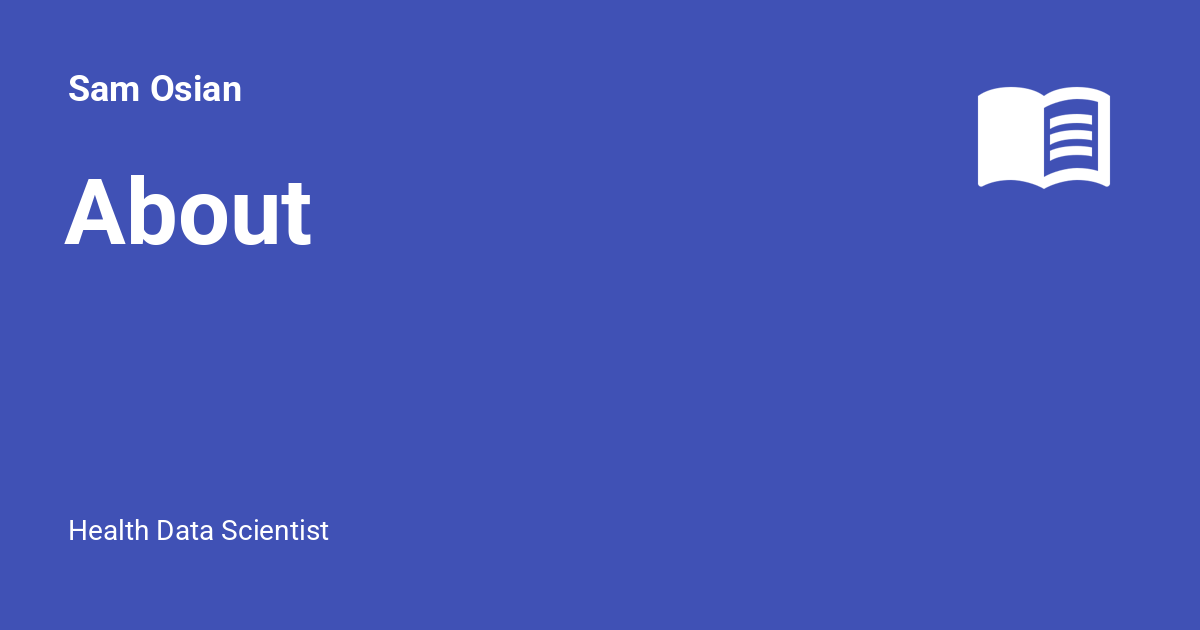
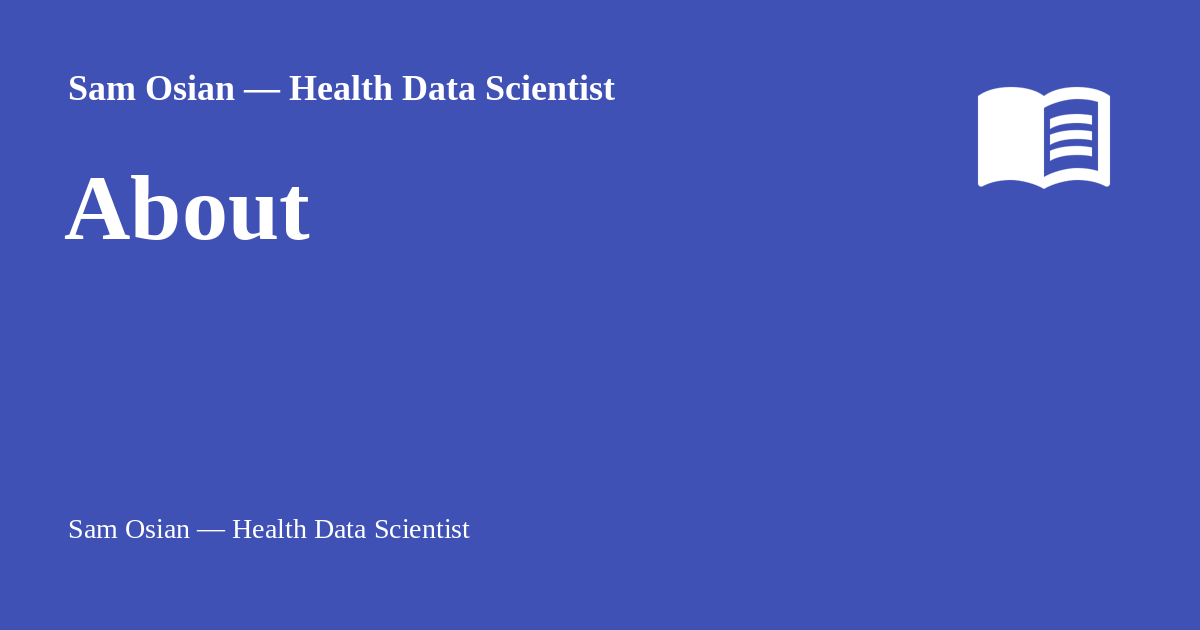
Deployed f27662d with MkDocs version: 1.6.1

Changed region(s): [[0.0617, 0.1206, 0.5242, 0.181], [0.0308, 0.2714, 0.2775, 0.3921], [0.0617, 0.8143, 0.4008, 0.8746]]

diff --git a/2025/07/14/rethinking-statistical-significance/index.html b/2025/07/14/rethinking-statistical-significance/index.html
@@ -6,7 +6,7 @@
       <meta charset="utf-8">
       <meta name="viewport" content="width=device-width,initial-scale=1">
       
-        <meta name="description" content="Health Data Scientist">
+        <meta name="description" content="Sam Osian — Health Data Scientist">
       
       
         <meta name="author" content="Sam Osian">
@@ -25,7 +25,7 @@
     
     
       
-        <title>Rethinking 'statistical significance' — Has the p-value overstayed its welcome? - Sam Osian</title>
+        <title>Rethinking 'statistical significance' — Has the p-value overstayed its welcome? - Sam Osian — Health Data Scientist</title>
       
     
     
@@ -64,9 +64,9 @@
       
         <meta  property="og:type"  content="website" >
       
-        <meta  property="og:title"  content="Rethinking 'statistical significance' — Has the p-value overstayed its welcome? - Sam Osian" >
+        <meta  property="og:title"  content="Rethinking 'statistical significance' — Has the p-value overstayed its welcome? - Sam Osian — Health Data Scientist" >
       
-        <meta  property="og:description"  content="Health Data Scientist" >
+        <meta  property="og:description"  content="Sam Osian — Health Data Scientist" >
       
         <meta  property="og:image"  content="https://sam-osian.com/assets/images/social/posts/rethinking-significance.png" >
       
@@ -80,9 +80,9 @@
       
         <meta  name="twitter:card"  content="summary_large_image" >
       
-        <meta  name="twitter:title"  content="Rethinking 'statistical significance' — Has the p-value overstayed its welcome? - Sam Osian" >
+        <meta  name="twitter:title"  content="Rethinking 'statistical significance' — Has the p-value overstayed its welcome? - Sam Osian — Health Data Scientist" >
       
-        <meta  name="twitter:description"  content="Health Data Scientist" >
+        <meta  name="twitter:description"  content="Sam Osian — Health Data Scientist" >
       
         <meta  name="twitter:image"  content="https://sam-osian.com/assets/images/social/posts/rethinking-significance.png" >
       
@@ -132,7 +132,7 @@
 
 <header class="md-header md-header--shadow" data-md-component="header">
   <nav class="md-header__inner md-grid" aria-label="Header">
-    <a href="../../../.." title="Sam Osian" class="md-header__button md-logo" aria-label="Sam Osian" data-md-component="logo">
+    <a href="../../../.." title="Sam Osian — Health Data Scientist" class="md-header__button md-logo" aria-label="Sam Osian — Health Data Scientist" data-md-component="logo">
       
   
   <svg xmlns="http://www.w3.org/2000/svg" viewBox="0 0 24 24"><path d="M12 21.5c-1.35-.85-3.8-1.5-5.5-1.5-1.65 0-3.35.3-4.75 1.05-.1.05-.15.05-.25.05-.25 0-.5-.25-.5-.5V6c.6-.45 1.25-.75 2-1 1.11-.35 2.33-.5 3.5-.5 1.95 0 4.05.4 5.5 1.5 1.45-1.1 3.55-1.5 5.5-1.5 1.17 0 2.39.15 3.5.5.75.25 1.4.55 2 1v14.6c0 .25-.25.5-.5.5-.1 0-.15 0-.25-.05-1.4-.75-3.1-1.05-4.75-1.05-1.7 0-4.15.65-5.5 1.5M12 8v11.5c1.35-.85 3.8-1.5 5.5-1.5 1.2 0 2.4.15 3.5.5V7c-1.1-.35-2.3-.5-3.5-.5-1.7 0-4.15.65-5.5 1.5m1 3.5c1.11-.68 2.6-1 4.5-1 .91 0 1.76.09 2.5.28V9.23c-.87-.15-1.71-.23-2.5-.23q-2.655 0-4.5.84zm4.5.17c-1.71 0-3.21.26-4.5.79v1.69c1.11-.65 2.6-.99 4.5-.99 1.04 0 1.88.08 2.5.24v-1.5c-.87-.16-1.71-.23-2.5-.23m2.5 2.9c-.87-.16-1.71-.24-2.5-.24-1.83 0-3.33.27-4.5.8v1.69c1.11-.66 2.6-.99 4.5-.99 1.04 0 1.88.08 2.5.24z"/></svg>
@@ -146,7 +146,7 @@
       <div class="md-header__ellipsis">
         <div class="md-header__topic">
           <span class="md-ellipsis">
-            Sam Osian
+            Sam Osian — Health Data Scientist
           </span>
         </div>
         <div class="md-header__topic" data-md-component="header-topic">
@@ -260,13 +260,13 @@
 
 <nav class="md-nav md-nav--primary" aria-label="Navigation" data-md-level="0">
   <label class="md-nav__title" for="__drawer">
-    <a href="../../../.." title="Sam Osian" class="md-nav__button md-logo" aria-label="Sam Osian" data-md-component="logo">
+    <a href="../../../.." title="Sam Osian — Health Data Scientist" class="md-nav__button md-logo" aria-label="Sam Osian — Health Data Scientist" data-md-component="logo">
       
   
   <svg xmlns="http://www.w3.org/2000/svg" viewBox="0 0 24 24"><path d="M12 21.5c-1.35-.85-3.8-1.5-5.5-1.5-1.65 0-3.35.3-4.75 1.05-.1.05-.15.05-.25.05-.25 0-.5-.25-.5-.5V6c.6-.45 1.25-.75 2-1 1.11-.35 2.33-.5 3.5-.5 1.95 0 4.05.4 5.5 1.5 1.45-1.1 3.55-1.5 5.5-1.5 1.17 0 2.39.15 3.5.5.75.25 1.4.55 2 1v14.6c0 .25-.25.5-.5.5-.1 0-.15 0-.25-.05-1.4-.75-3.1-1.05-4.75-1.05-1.7 0-4.15.65-5.5 1.5M12 8v11.5c1.35-.85 3.8-1.5 5.5-1.5 1.2 0 2.4.15 3.5.5V7c-1.1-.35-2.3-.5-3.5-.5-1.7 0-4.15.65-5.5 1.5m1 3.5c1.11-.68 2.6-1 4.5-1 .91 0 1.76.09 2.5.28V9.23c-.87-.15-1.71-.23-2.5-.23q-2.655 0-4.5.84zm4.5.17c-1.71 0-3.21.26-4.5.79v1.69c1.11-.65 2.6-.99 4.5-.99 1.04 0 1.88.08 2.5.24v-1.5c-.87-.16-1.71-.23-2.5-.23m2.5 2.9c-.87-.16-1.71-.24-2.5-.24-1.83 0-3.33.27-4.5.8v1.69c1.11-.66 2.6-.99 4.5-.99 1.04 0 1.88.08 2.5.24z"/></svg>
 
     </a>
-    Sam Osian
+    Sam Osian — Health Data Scientist
   </label>
   
   <ul class="md-nav__list" data-md-scrollfix>

diff --git a/publications/index.html b/publications/index.html
@@ -6,7 +6,7 @@
       <meta charset="utf-8">
       <meta name="viewport" content="width=device-width,initial-scale=1">
       
-        <meta name="description" content="Health Data Scientist">
+        <meta name="description" content="Sam Osian — Health Data Scientist">
       
       
         <meta name="author" content="Sam Osian">
@@ -27,7 +27,7 @@
     
     
       
-        <title>Publications - Sam Osian</title>
+        <title>Publications - Sam Osian — Health Data Scientist</title>
       
     
     
@@ -64,9 +64,9 @@
       
         <meta  property="og:type"  content="website" >
       
-        <meta  property="og:title"  content="Publications - Sam Osian" >
+        <meta  property="og:title"  content="Publications - Sam Osian — Health Data Scientist" >
       
-        <meta  property="og:description"  content="Health Data Scientist" >
+        <meta  property="og:description"  content="Sam Osian — Health Data Scientist" >
       
         <meta  property="og:image"  content="https://sam-osian.com/assets/images/social/publications.png" >
       
@@ -80,9 +80,9 @@
       
         <meta  name="twitter:card"  content="summary_large_image" >
       
-        <meta  name="twitter:title"  content="Publications - Sam Osian" >
+        <meta  name="twitter:title"  content="Publications - Sam Osian — Health Data Scientist" >
       
-        <meta  name="twitter:description"  content="Health Data Scientist" >
+        <meta  name="twitter:description"  content="Sam Osian — Health Data Scientist" >
       
         <meta  name="twitter:image"  content="https://sam-osian.com/assets/images/social/publications.png" >
       
@@ -132,7 +132,7 @@
 
 <header class="md-header md-header--shadow" data-md-component="header">
   <nav class="md-header__inner md-grid" aria-label="Header">
-    <a href=".." title="Sam Osian" class="md-header__button md-logo" aria-label="Sam Osian" data-md-component="logo">
+    <a href=".." title="Sam Osian — Health Data Scientist" class="md-header__button md-logo" aria-label="Sam Osian — Health Data Scientist" data-md-component="logo">
       
   
   <svg xmlns="http://www.w3.org/2000/svg" viewBox="0 0 24 24"><path d="M12 21.5c-1.35-.85-3.8-1.5-5.5-1.5-1.65 0-3.35.3-4.75 1.05-.1.05-.15.05-.25.05-.25 0-.5-.25-.5-.5V6c.6-.45 1.25-.75 2-1 1.11-.35 2.33-.5 3.5-.5 1.95 0 4.05.4 5.5 1.5 1.45-1.1 3.55-1.5 5.5-1.5 1.17 0 2.39.15 3.5.5.75.25 1.4.55 2 1v14.6c0 .25-.25.5-.5.5-.1 0-.15 0-.25-.05-1.4-.75-3.1-1.05-4.75-1.05-1.7 0-4.15.65-5.5 1.5M12 8v11.5c1.35-.85 3.8-1.5 5.5-1.5 1.2 0 2.4.15 3.5.5V7c-1.1-.35-2.3-.5-3.5-.5-1.7 0-4.15.65-5.5 1.5m1 3.5c1.11-.68 2.6-1 4.5-1 .91 0 1.76.09 2.5.28V9.23c-.87-.15-1.71-.23-2.5-.23q-2.655 0-4.5.84zm4.5.17c-1.71 0-3.21.26-4.5.79v1.69c1.11-.65 2.6-.99 4.5-.99 1.04 0 1.88.08 2.5.24v-1.5c-.87-.16-1.71-.23-2.5-.23m2.5 2.9c-.87-.16-1.71-.24-2.5-.24-1.83 0-3.33.27-4.5.8v1.69c1.11-.66 2.6-.99 4.5-.99 1.04 0 1.88.08 2.5.24z"/></svg>
@@ -146,7 +146,7 @@
       <div class="md-header__ellipsis">
         <div class="md-header__topic">
           <span class="md-ellipsis">
-            Sam Osian
+            Sam Osian — Health Data Scientist
           </span>
         </div>
         <div class="md-header__topic" data-md-component="header-topic">
@@ -258,13 +258,13 @@
 
 <nav class="md-nav md-nav--primary" aria-label="Navigation" data-md-level="0">
   <label class="md-nav__title" for="__drawer">
-    <a href=".." title="Sam Osian" class="md-nav__button md-logo" aria-label="Sam Osian" data-md-component="logo">
+    <a href=".." title="Sam Osian — Health Data Scientist" class="md-nav__button md-logo" aria-label="Sam Osian — Health Data Scientist" data-md-component="logo">
       
   
   <svg xmlns="http://www.w3.org/2000/svg" viewBox="0 0 24 24"><path d="M12 21.5c-1.35-.85-3.8-1.5-5.5-1.5-1.65 0-3.35.3-4.75 1.05-.1.05-.15.05-.25.05-.25 0-.5-.25-.5-.5V6c.6-.45 1.25-.75 2-1 1.11-.35 2.33-.5 3.5-.5 1.95 0 4.05.4 5.5 1.5 1.45-1.1 3.55-1.5 5.5-1.5 1.17 0 2.39.15 3.5.5.75.25 1.4.55 2 1v14.6c0 .25-.25.5-.5.5-.1 0-.15 0-.25-.05-1.4-.75-3.1-1.05-4.75-1.05-1.7 0-4.15.65-5.5 1.5M12 8v11.5c1.35-.85 3.8-1.5 5.5-1.5 1.2 0 2.4.15 3.5.5V7c-1.1-.35-2.3-.5-3.5-.5-1.7 0-4.15.65-5.5 1.5m1 3.5c1.11-.68 2.6-1 4.5-1 .91 0 1.76.09 2.5.28V9.23c-.87-.15-1.71-.23-2.5-.23q-2.655 0-4.5.84zm4.5.17c-1.71 0-3.21.26-4.5.79v1.69c1.11-.65 2.6-.99 4.5-.99 1.04 0 1.88.08 2.5.24v-1.5c-.87-.16-1.71-.23-2.5-.23m2.5 2.9c-.87-.16-1.71-.24-2.5-.24-1.83 0-3.33.27-4.5.8v1.69c1.11-.66 2.6-.99 4.5-.99 1.04 0 1.88.08 2.5.24z"/></svg>
 
     </a>
-    Sam Osian
+    Sam Osian — Health Data Scientist
   </label>
   
   <ul class="md-nav__list" data-md-scrollfix>

diff --git a/about/index.html b/about/index.html
@@ -6,7 +6,7 @@
       <meta charset="utf-8">
       <meta name="viewport" content="width=device-width,initial-scale=1">
       
-        <meta name="description" content="Health Data Scientist">
+        <meta name="description" content="Sam Osian — Health Data Scientist">
       
       
         <meta name="author" content="Sam Osian">
@@ -29,7 +29,7 @@
     
     
       
-        <title>About - Sam Osian</title>
+        <title>About - Sam Osian — Health Data Scientist</title>
       
     
     
@@ -66,9 +66,9 @@
       
         <meta  property="og:type"  content="website" >
       
-        <meta  property="og:title"  content="About - Sam Osian" >
+        <meta  property="og:title"  content="About - Sam Osian — Health Data Scientist" >
       
-        <meta  property="og:description"  content="Health Data Scientist" >
+        <meta  property="og:description"  content="Sam Osian — Health Data Scientist" >
       
         <meta  property="og:image"  content="https://sam-osian.com/assets/images/social/about.png" >
       
@@ -82,9 +82,9 @@
       
         <meta  name="twitter:card"  content="summary_large_image" >
       
-        <meta  name="twitter:title"  content="About - Sam Osian" >
+        <meta  name="twitter:title"  content="About - Sam Osian — Health Data Scientist" >
       
-        <meta  name="twitter:description"  content="Health Data Scientist" >
+        <meta  name="twitter:description"  content="Sam Osian — Health Data Scientist" >
       
         <meta  name="twitter:image"  content="https://sam-osian.com/assets/images/social/about.png" >
       
@@ -134,7 +134,7 @@
 
 <header class="md-header md-header--shadow" data-md-component="header">
   <nav class="md-header__inner md-grid" aria-label="Header">
-    <a href=".." title="Sam Osian" class="md-header__button md-logo" aria-label="Sam Osian" data-md-component="logo">
+    <a href=".." title="Sam Osian — Health Data Scientist" class="md-header__button md-logo" aria-label="Sam Osian — Health Data Scientist" data-md-component="logo">
       
   
   <svg xmlns="http://www.w3.org/2000/svg" viewBox="0 0 24 24"><path d="M12 21.5c-1.35-.85-3.8-1.5-5.5-1.5-1.65 0-3.35.3-4.75 1.05-.1.05-.15.05-.25.05-.25 0-.5-.25-.5-.5V6c.6-.45 1.25-.75 2-1 1.11-.35 2.33-.5 3.5-.5 1.95 0 4.05.4 5.5 1.5 1.45-1.1 3.55-1.5 5.5-1.5 1.17 0 2.39.15 3.5.5.75.25 1.4.55 2 1v14.6c0 .25-.25.5-.5.5-.1 0-.15 0-.25-.05-1.4-.75-3.1-1.05-4.75-1.05-1.7 0-4.15.65-5.5 1.5M12 8v11.5c1.35-.85 3.8-1.5 5.5-1.5 1.2 0 2.4.15 3.5.5V7c-1.1-.35-2.3-.5-3.5-.5-1.7 0-4.15.65-5.5 1.5m1 3.5c1.11-.68 2.6-1 4.5-1 .91 0 1.76.09 2.5.28V9.23c-.87-.15-1.71-.23-2.5-.23q-2.655 0-4.5.84zm4.5.17c-1.71 0-3.21.26-4.5.79v1.69c1.11-.65 2.6-.99 4.5-.99 1.04 0 1.88.08 2.5.24v-1.5c-.87-.16-1.71-.23-2.5-.23m2.5 2.9c-.87-.16-1.71-.24-2.5-.24-1.83 0-3.33.27-4.5.8v1.69c1.11-.66 2.6-.99 4.5-.99 1.04 0 1.88.08 2.5.24z"/></svg>
@@ -148,7 +148,7 @@
       <div class="md-header__ellipsis">
         <div class="md-header__topic">
           <span class="md-ellipsis">
-            Sam Osian
+            Sam Osian — Health Data Scientist
           </span>
         </div>
         <div class="md-header__topic" data-md-component="header-topic">
@@ -260,13 +260,13 @@
 
 <nav class="md-nav md-nav--primary" aria-label="Navigation" data-md-level="0">
   <label class="md-nav__title" for="__drawer">
-    <a href=".." title="Sam Osian" class="md-nav__button md-logo" aria-label="Sam Osian" data-md-component="logo">
+    <a href=".." title="Sam Osian — Health Data Scientist" class="md-nav__button md-logo" aria-label="Sam Osian — Health Data Scientist" data-md-component="logo">
       
   
   <svg xmlns="http://www.w3.org/2000/svg" viewBox="0 0 24 24"><path d="M12 21.5c-1.35-.85-3.8-1.5-5.5-1.5-1.65 0-3.35.3-4.75 1.05-.1.05-.15.05-.25.05-.25 0-.5-.25-.5-.5V6c.6-.45 1.25-.75 2-1 1.11-.35 2.33-.5 3.5-.5 1.95 0 4.05.4 5.5 1.5 1.45-1.1 3.55-1.5 5.5-1.5 1.17 0 2.39.15 3.5.5.75.25 1.4.55 2 1v14.6c0 .25-.25.5-.5.5-.1 0-.15 0-.25-.05-1.4-.75-3.1-1.05-4.75-1.05-1.7 0-4.15.65-5.5 1.5M12 8v11.5c1.35-.85 3.8-1.5 5.5-1.5 1.2 0 2.4.15 3.5.5V7c-1.1-.35-2.3-.5-3.5-.5-1.7 0-4.15.65-5.5 1.5m1 3.5c1.11-.68 2.6-1 4.5-1 .91 0 1.76.09 2.5.28V9.23c-.87-.15-1.71-.23-2.5-.23q-2.655 0-4.5.84zm4.5.17c-1.71 0-3.21.26-4.5.79v1.69c1.11-.65 2.6-.99 4.5-.99 1.04 0 1.88.08 2.5.24v-1.5c-.87-.16-1.71-.23-2.5-.23m2.5 2.9c-.87-.16-1.71-.24-2.5-.24-1.83 0-3.33.27-4.5.8v1.69c1.11-.66 2.6-.99 4.5-.99 1.04 0 1.88.08 2.5.24z"/></svg>
 
     </a>
-    Sam Osian
+    Sam Osian — Health Data Scientist
   </label>
   
   <ul class="md-nav__list" data-md-scrollfix>

diff --git a/index.html b/index.html
@@ -6,7 +6,7 @@
       <meta charset="utf-8">
       <meta name="viewport" content="width=device-width,initial-scale=1">
       
-        <meta name="description" content="Health Data Scientist">
+        <meta name="description" content="Sam Osian — Health Data Scientist">
       
       
         <meta name="author" content="Sam Osian">
@@ -27,7 +27,7 @@
     
     
       
-        <title>Sam Osian</title>
+        <title>Sam Osian — Health Data Scientist</title>
       
     
     
@@ -64,9 +64,9 @@
       
         <meta  property="og:type"  content="website" >
       
-        <meta  property="og:title"  content="Sam Osian" >
+        <meta  property="og:title"  content="Sam Osian — Health Data Scientist" >
       
-        <meta  property="og:description"  content="Health Data Scientist" >
+        <meta  property="og:description"  content="Sam Osian — Health Data Scientist" >
       
         <meta  property="og:image"  content="https://sam-osian.com/assets/images/social/index.png" >
       
@@ -80,9 +80,9 @@
       
         <meta  name="twitter:card"  content="summary_large_image" >
       
-        <meta  name="twitter:title"  content="Sam Osian" >
+        <meta  name="twitter:title"  content="Sam Osian — Health Data Scientist" >
       
-        <meta  name="twitter:description"  content="Health Data Scientist" >
+        <meta  name="twitter:description"  content="Sam Osian — Health Data Scientist" >
       
         <meta  name="twitter:image"  content="https://sam-osian.com/assets/images/social/index.png" >
       
@@ -132,7 +132,7 @@
 
 <header class="md-header md-header--shadow" data-md-component="header">
   <nav class="md-header__inner md-grid" aria-label="Header">
-    <a href="." title="Sam Osian" class="md-header__button md-logo" aria-label="Sam Osian" data-md-component="logo">
+    <a href="." title="Sam Osian — Health Data Scientist" class="md-header__button md-logo" aria-label="Sam Osian — Health Data Scientist" data-md-component="logo">
       
   
   <svg xmlns="http://www.w3.org/2000/svg" viewBox="0 0 24 24"><path d="M12 21.5c-1.35-.85-3.8-1.5-5.5-1.5-1.65 0-3.35.3-4.75 1.05-.1.05-.15.05-.25.05-.25 0-.5-.25-.5-.5V6c.6-.45 1.25-.75 2-1 1.11-.35 2.33-.5 3.5-.5 1.95 0 4.05.4 5.5 1.5 1.45-1.1 3.55-1.5 5.5-1.5 1.17 0 2.39.15 3.5.5.75.25 1.4.55 2 1v14.6c0 .25-.25.5-.5.5-.1 0-.15 0-.25-.05-1.4-.75-3.1-1.05-4.75-1.05-1.7 0-4.15.65-5.5 1.5M12 8v11.5c1.35-.85 3.8-1.5 5.5-1.5 1.2 0 2.4.15 3.5.5V7c-1.1-.35-2.3-.5-3.5-.5-1.7 0-4.15.65-5.5 1.5m1 3.5c1.11-.68 2.6-1 4.5-1 .91 0 1.76.09 2.5.28V9.23c-.87-.15-1.71-.23-2.5-.23q-2.655 0-4.5.84zm4.5.17c-1.71 0-3.21.26-4.5.79v1.69c1.11-.65 2.6-.99 4.5-.99 1.04 0 1.88.08 2.5.24v-1.5c-.87-.16-1.71-.23-2.5-.23m2.5 2.9c-.87-.16-1.71-.24-2.5-.24-1.83 0-3.33.27-4.5.8v1.69c1.11-.66 2.6-.99 4.5-.99 1.04 0 1.88.08 2.5.24z"/></svg>
@@ -146,7 +146,7 @@
       <div class="md-header__ellipsis">
         <div class="md-header__topic">
           <span class="md-ellipsis">
-            Sam Osian
+            Sam Osian — Health Data Scientist
           </span>
         </div>
         <div class="md-header__topic" data-md-component="header-topic">
@@ -258,13 +258,13 @@
 
 <nav class="md-nav md-nav--primary" aria-label="Navigation" data-md-level="0">
   <label class="md-nav__title" for="__drawer">
-    <a href="." title="Sam Osian" class="md-nav__button md-logo" aria-label="Sam Osian" data-md-component="logo">
+    <a href="." title="Sam Osian — Health Data Scientist" class="md-nav__button md-logo" aria-label="Sam Osian — Health Data Scientist" data-md-component="logo">
       
   
   <svg xmlns="http://www.w3.org/2000/svg" viewBox="0 0 24 24"><path d="M12 21.5c-1.35-.85-3.8-1.5-5.5-1.5-1.65 0-3.35.3-4.75 1.05-.1.05-.15.05-.25.05-.25 0-.5-.25-.5-.5V6c.6-.45 1.25-.75 2-1 1.11-.35 2.33-.5 3.5-.5 1.95 0 4.05.4 5.5 1.5 1.45-1.1 3.55-1.5 5.5-1.5 1.17 0 2.39.15 3.5.5.75.25 1.4.55 2 1v14.6c0 .25-.25.5-.5.5-.1 0-.15 0-.25-.05-1.4-.75-3.1-1.05-4.75-1.05-1.7 0-4.15.65-5.5 1.5M12 8v11.5c1.35-.85 3.8-1.5 5.5-1.5 1.2 0 2.4.15 3.5.5V7c-1.1-.35-2.3-.5-3.5-.5-1.7 0-4.15.65-5.5 1.5m1 3.5c1.11-.68 2.6-1 4.5-1 .91 0 1.76.09 2.5.28V9.23c-.87-.15-1.71-.23-2.5-.23q-2.655 0-4.5.84zm4.5.17c-1.71 0-3.21.26-4.5.79v1.69c1.11-.65 2.6-.99 4.5-.99 1.04 0 1.88.08 2.5.24v-1.5c-.87-.16-1.71-.23-2.5-.23m2.5 2.9c-.87-.16-1.71-.24-2.5-.24-1.83 0-3.33.27-4.5.8v1.69c1.11-.66 2.6-.99 4.5-.99 1.04 0 1.88.08 2.5.24z"/></svg>
 
     </a>
-    Sam Osian
+    Sam Osian — Health Data Scientist
   </label>
   
   <ul class="md-nav__list" data-md-scrollfix>

diff --git a/404.html b/404.html
@@ -6,7 +6,7 @@
       <meta charset="utf-8">
       <meta name="viewport" content="width=device-width,initial-scale=1">
       
-        <meta name="description" content="Health Data Scientist">
+        <meta name="description" content="Sam Osian — Health Data Scientist">
       
       
         <meta name="author" content="Sam Osian">
@@ -23,7 +23,7 @@
     
     
       
-        <title>Sam Osian</title>
+        <title>Sam Osian — Health Data Scientist</title>
       
     
     
@@ -88,7 +88,7 @@
 
 <header class="md-header md-header--shadow" data-md-component="header">
   <nav class="md-header__inner md-grid" aria-label="Header">
-    <a href="/." title="Sam Osian" class="md-header__button md-logo" aria-label="Sam Osian" data-md-component="logo">
+    <a href="/." title="Sam Osian — Health Data Scientist" class="md-header__button md-logo" aria-label="Sam Osian — Health Data Scientist" data-md-component="logo">
       
   
   <svg xmlns="http://www.w3.org/2000/svg" viewBox="0 0 24 24"><path d="M12 21.5c-1.35-.85-3.8-1.5-5.5-1.5-1.65 0-3.35.3-4.75 1.05-.1.05-.15.05-.25.05-.25 0-.5-.25-.5-.5V6c.6-.45 1.25-.75 2-1 1.11-.35 2.33-.5 3.5-.5 1.95 0 4.05.4 5.5 1.5 1.45-1.1 3.55-1.5 5.5-1.5 1.17 0 2.39.15 3.5.5.75.25 1.4.55 2 1v14.6c0 .25-.25.5-.5.5-.1 0-.15 0-.25-.05-1.4-.75-3.1-1.05-4.75-1.05-1.7 0-4.15.65-5.5 1.5M12 8v11.5c1.35-.85 3.8-1.5 5.5-1.5 1.2 0 2.4.15 3.5.5V7c-1.1-.35-2.3-.5-3.5-.5-1.7 0-4.15.65-5.5 1.5m1 3.5c1.11-.68 2.6-1 4.5-1 .91 0 1.76.09 2.5.28V9.23c-.87-.15-1.71-.23-2.5-.23q-2.655 0-4.5.84zm4.5.17c-1.71 0-3.21.26-4.5.79v1.69c1.11-.65 2.6-.99 4.5-.99 1.04 0 1.88.08 2.5.24v-1.5c-.87-.16-1.71-.23-2.5-.23m2.5 2.9c-.87-.16-1.71-.24-2.5-.24-1.83 0-3.33.27-4.5.8v1.69c1.11-.66 2.6-.99 4.5-.99 1.04 0 1.88.08 2.5.24z"/></svg>
@@ -102,7 +102,7 @@
       <div class="md-header__ellipsis">
         <div class="md-header__topic">
           <span class="md-ellipsis">
-            Sam Osian
+            Sam Osian — Health Data Scientist
           </span>
         </div>
         <div class="md-header__topic" data-md-component="header-topic">
@@ -214,13 +214,13 @@
 
 <nav class="md-nav md-nav--primary" aria-label="Navigation" data-md-level="0">
   <label class="md-nav__title" for="__drawer">
-    <a href="/." title="Sam Osian" class="md-nav__button md-logo" aria-label="Sam Osian" data-md-component="logo">
+    <a href="/." title="Sam Osian — Health Data Scientist" class="md-nav__button md-logo" aria-label="Sam Osian — Health Data Scientist" data-md-component="logo">
       
   
   <svg xmlns="http://www.w3.org/2000/svg" viewBox="0 0 24 24"><path d="M12 21.5c-1.35-.85-3.8-1.5-5.5-1.5-1.65 0-3.35.3-4.75 1.05-.1.05-.15.05-.25.05-.25 0-.5-.25-.5-.5V6c.6-.45 1.25-.75 2-1 1.11-.35 2.33-.5 3.5-.5 1.95 0 4.05.4 5.5 1.5 1.45-1.1 3.55-1.5 5.5-1.5 1.17 0 2.39.15 3.5.5.75.25 1.4.55 2 1v14.6c0 .25-.25.5-.5.5-.1 0-.15 0-.25-.05-1.4-.75-3.1-1.05-4.75-1.05-1.7 0-4.15.65-5.5 1.5M12 8v11.5c1.35-.85 3.8-1.5 5.5-1.5 1.2 0 2.4.15 3.5.5V7c-1.1-.35-2.3-.5-3.5-.5-1.7 0-4.15.65-5.5 1.5m1 3.5c1.11-.68 2.6-1 4.5-1 .91 0 1.76.09 2.5.28V9.23c-.87-.15-1.71-.23-2.5-.23q-2.655 0-4.5.84zm4.5.17c-1.71 0-3.21.26-4.5.79v1.69c1.11-.65 2.6-.99 4.5-.99 1.04 0 1.88.08 2.5.24v-1.5c-.87-.16-1.71-.23-2.5-.23m2.5 2.9c-.87-.16-1.71-.24-2.5-.24-1.83 0-3.33.27-4.5.8v1.69c1.11-.66 2.6-.99 4.5-.99 1.04 0 1.88.08 2.5.24z"/></svg>
 
     </a>
-    Sam Osian
+    Sam Osian — Health Data Scientist
   </label>
   
   <ul class="md-nav__list" data-md-scrollfix>
